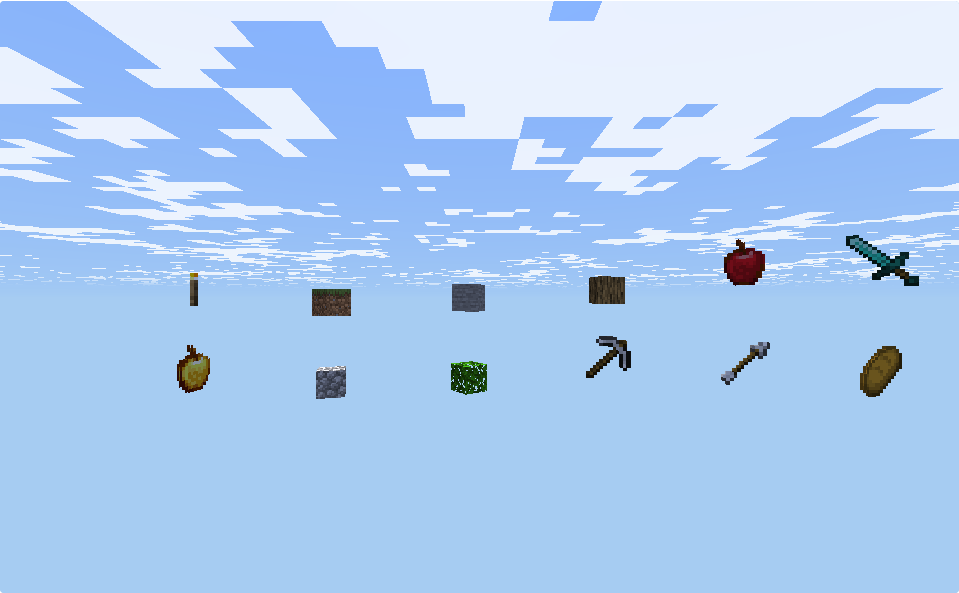
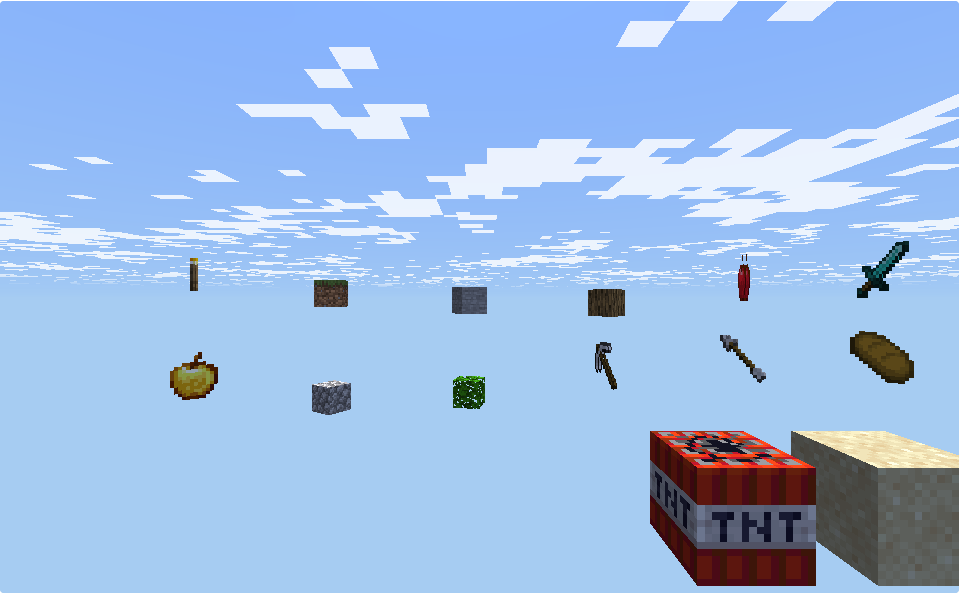
Falling blocks and primed TNT drawn as cubes
ItemLayer.AddBlock draws a falling block (variant = block name, sent by the
plugin and the Fabric mod) or a TNT as a whole block from the item atlas.

diff --git a/AubsCraft.Viewer.Tests/ViewerItemsTests.cs b/AubsCraft.Viewer.Tests/ViewerItemsTests.cs
@@ -47,7 +47,10 @@ public class ViewerItemsTests
             float x = -3.3f + (i % 6) * 1.3f, y = 119.2f - (i / 6) * 0.9f;
             entities.Add(new LiveEntity(100 + i, "item", x, y, 0.5f, 0f, 0f, 0f, 0, 0f, 0f, 0f, null, items[i]));
         }
-        long tick = 200_000;
+        // A falling block and a primed TNT: whole blocks, in the row below the items
+        entities.Add(new LiveEntity(150, "falling_block", -3.3f, 117.0f, 0.5f, 0f, 0f, 0f, 0, 0f, 0f, 0f, null, "sand"));
+        entities.Add(new LiveEntity(151, "tnt", -1.8f, 117.0f, 0.5f, 0f, 0f, 0f, 0, 0f, 0f, 0f, null, null));
+        long tick = 400_000;
         byte[] Frame() => LiveFrameCodec.Write(new LiveFrame
         {
             FullTime = tick, DayTime = 6000, Raining = false, Thundering = false,
@@ -77,7 +80,9 @@ public class ViewerItemsTests
                     await Task.Delay(200);
                 }
             });
-            await Task.Delay(6000);
+            await Task.Delay(4000);
+            // The count is logged every few seconds: wait for the line that has all of them
+            for (int i = 0; i < 30 && !log.ToArray().Any(l => l.Contains($" {items.Length + 2} items)")); i++) await Task.Delay(1000);
             var files = new List<string>();
             for (int i = 0; i < 3; i++)
             {
@@ -89,7 +94,7 @@ public class ViewerItemsTests
 
             Assert.That(log.Any(l => Regex.IsMatch(l, @"\[Items\] Item assets: \d{4} items")), Is.True, "the item pictures loaded:\n" + string.Join("\n", log.Where(l => l.Contains("Items"))));
             var drawn = log.ToArray().Select(l => Regex.Match(l, @"(\d+) items\)")).Where(m => m.Success).Select(m => int.Parse(m.Groups[1].Value)).ToList();
-            Assert.That(drawn.Count == 0 ? 0 : drawn.Max(), Is.EqualTo(items.Length), "every item is in range and drawn");
+            Assert.That(drawn.Count == 0 ? 0 : drawn.Max(), Is.EqualTo(items.Length + 2), "every item, the falling block and the TNT are in range and drawn");
             // Pixels that are neither sky blue nor cloud white are the items
             using var bmp = new Bitmap(files[0]);
             int itemPixels = 0;

diff --git a/AubsCraft.Admin/Rendering/ItemLayer.cs b/AubsCraft.Admin/Rendering/ItemLayer.cs
@@ -20,6 +20,7 @@ public sealed class ItemLayer : IDisposable
     /// <summary>A flat item is drawn half a block across, a block a quarter.</summary>
     public const float SpriteScale = 0.5f, CubeScale = 0.25f;
     // The creatures' light (ambient and sun on the face) is dim for a picture that the game shows at full brightness: lift it
+    private static readonly Vector4 BlockBrightness = new(1.3f, 1.3f, 1.3f, 1f);
     private static readonly Vector4 Brighten = new(1.7f, 1.7f, 1.7f, 1f);
 
     private readonly SpawnJSRuntime _js;
@@ -84,6 +85,21 @@ public sealed class ItemLayer : IDisposable
             SizeFlags = cube ? new Vector4(16f, 16f, 16f, 0f) : new Vector4(16f, 16f, 1f, 0f),
             Uv = new Vector4(cell[0], cell[1], 0f, 0f),
             Tint = Brighten,
+        };
+        _wanted.Add((distSq, part));
+    }
+
+    /// <summary>A falling block or a primed TNT: a whole block (a hair under one, as the game's 0.98 box), not spinning. <paramref name="name"/> is the block's name.</summary>
+    public void AddBlock(in LiveEntityView v, string? name, float distSq)
+    {
+        if (_assets == null || name is not { Length: > 0 } || !_assets.Items.TryGetValue(name, out var cell) || cell[2] != ItemAssets.KindCube) return;
+        var part = new EntityPartInstance
+        {
+            Model = EntityPoser.Root(v.X, v.Y, v.Z, 0f, 0.98f),
+            OriginInflate = new Vector4(-8f, 8f, -8f, 0f),
+            SizeFlags = new Vector4(16f, 16f, 16f, 0f),
+            Uv = new Vector4(cell[0], cell[1], 0f, 0f),
+            Tint = BlockBrightness,
         };
         _wanted.Add((distSq, part));
     }

diff --git a/AubsCraft.Admin/Rendering/EntityLayer.cs b/AubsCraft.Admin/Rendering/EntityLayer.cs
@@ -213,11 +213,14 @@ public sealed class EntityLayer : IDisposable
         foreach (var v in _state.Sample(world, now, Wanted))
         {
             if ((v.Flags & LiveFlags.Invisible) != 0) continue;
-            if (Items != null && EntityModels.Normalise(v.Type) == "item")
+            var kind = EntityModels.Normalise(v.Type);
+            if (Items != null && kind is "item" or "falling_block" or "tnt")
             {
                 float ix = v.X - camera.X, iy = v.Y - camera.Y, iz = v.Z - camera.Z;
                 float id2 = ix * ix + iy * iy + iz * iz;
-                if (id2 <= ItemRange * ItemRange) Items.Add(in v, now, id2);
+                if (id2 > ItemRange * ItemRange) continue;
+                if (kind == "item") Items.Add(in v, now, id2);
+                else Items.AddBlock(in v, kind == "tnt" ? "tnt" : v.Variant, id2);
                 continue;
             }
             if (EntityModels.IsNotACreature(v.Type)) continue;

diff --git a/LiveFabric/src/main/java/com/spawndev/aubscraftlive/LiveFabricMod.java b/LiveFabric/src/main/java/com/spawndev/aubscraftlive/LiveFabricMod.java
@@ -29,6 +29,7 @@ import net.minecraft.world.entity.animal.horse.Llama;
 import net.minecraft.world.entity.animal.sheep.Sheep;
 import net.minecraft.world.entity.npc.Villager;
 import net.minecraft.world.entity.item.ItemEntity;
+import net.minecraft.world.entity.item.FallingBlockEntity;
 import net.minecraft.world.phys.Vec3;
 
 import java.io.IOException;
@@ -206,6 +207,8 @@ public final class LiveFabricMod implements DedicatedServerModInitializer {
     }
 
     private static String variantOf(Entity e) {
+        // A falling block: which block (the viewer draws a cube of it)
+        if (e instanceof FallingBlockEntity fb) return key(BuiltInRegistries.BLOCK.getKey(fb.getBlockState().getBlock()));
         // A dropped item: what it is (the viewer draws its picture)
         if (e instanceof ItemEntity item) return key(BuiltInRegistries.ITEM.getKey(item.getItem().getItem()));
         if (e instanceof Sheep s) return s.getColor().getName();

diff --git a/LivePlugin/src/com/spawndev/aubscraftlive/LivePlugin.java b/LivePlugin/src/com/spawndev/aubscraftlive/LivePlugin.java
@@ -6,6 +6,7 @@ import org.bukkit.entity.Axolotl;
 import org.bukkit.entity.Cat;
 import org.bukkit.entity.Entity;
 import org.bukkit.entity.EntityType;
+import org.bukkit.entity.FallingBlock;
 import org.bukkit.entity.Fox;
 import org.bukkit.entity.Frog;
 import org.bukkit.entity.Horse;
@@ -201,6 +202,11 @@ public final class LivePlugin extends JavaPlugin {
     }
 
     private static String variantOf(Entity e) {
+        // A falling block: which block (the viewer draws a cube of it)
+        if (e instanceof FallingBlock fb) {
+            var key = fb.getBlockData().getMaterial().getKey();
+            return typeKey(key.getNamespace(), key.getKey());
+        }
         // A dropped item: what it is (the viewer draws its picture)
         if (e instanceof Item item) {
             var key = item.getItemStack().getType().getKey();

diff --git a/PLANS.md b/PLANS.md
@@ -126,7 +126,7 @@ one constant colour (no biomes); nothing animates; no entities at all. Today's a
   skeleton, creeper, cow, pig, sheep, chicken, villager, horse, wolf, cat, fox, rabbit, bat, spider, enderman, slime, fish, then a textured-box fallback with a name label.
 - [ ] WL3. (DONE: interpolation, walk cycle, head look, wing flap; LEFT: sneak/sleep/swim poses, hurt flash) **Motion**: interpolate 5-10 Hz snapshots to the display rate (render ~150 ms behind), walk cycle from speed, head look, sneak/sleep/swim poses, hurt flash.
 - [ ] WL4. (DONE: skins via the panel proxy; LEFT: name tags, chat bubbles, minimap markers, follow camera) Player skins (server-side fetch + cache of the profile texture URL), name tags, chat bubbles, minimap markers (players, animals; toggles), follow-camera on a player.
-- [~] WL5. Item entities (DONE 10-16: dropped items drawn as the game does, `ItemLayer` + `ItemAtlasBuilder` (mc-items.json, 1394 items: flat sprites + block cubes from the item models), the plugin and the Fabric mod send item entities with the item name as variant (`include-items` now true, `max-items` 500; TJ presses Update/Install on the Plugins page to rewrite the config + jar); gate `ViewerItemsTests`; LEFT: stack counts, enchant glint, tinted potions/eggs), boats/rafts/chest boats, minecarts, armor stands (DONE 10-16: the game exact models from tools/modeldump (filter now keeps Boat/Raft/Minecart/ArmorStand), `EntityModel.ModelYawDegrees`, gate `BoatsMinecartsAndStands_AreDrawn`; armor stands have no arms/armour/pose, minecarts no cargo block, paddles at rest), projectiles (arrows), falling blocks, tnt, item frames, paintings, end crystals. (PARTICLES DONE 10-16: `ParticleRenderPipeline` in VoxelEngine, analytic from the clock; campfire/soul campfire/furnace/fire/soul fire/torch/redstone torch/candle show smoke + flames, the server names the emitting blocks in `X-Emitters`. LEFT: rain/snow (needs weather), lava pops, explosions/hits/splashes from the live feed, end rods, bubbles, wall torch position by facing, signal smoke over hay.)
+- [~] WL5. Item entities (DONE 10-16: dropped items drawn as the game does, `ItemLayer` + `ItemAtlasBuilder` (mc-items.json, 1394 items: flat sprites + block cubes from the item models), the plugin and the Fabric mod send item entities with the item name as variant (`include-items` now true, `max-items` 500; TJ presses Update/Install on the Plugins page to rewrite the config + jar); gate `ViewerItemsTests`; LEFT: stack counts, enchant glint, tinted potions/eggs), boats/rafts/chest boats, minecarts, armor stands (DONE 10-16: the game exact models from tools/modeldump (filter now keeps Boat/Raft/Minecart/ArmorStand), `EntityModel.ModelYawDegrees`, gate `BoatsMinecartsAndStands_AreDrawn`; armor stands have no arms/armour/pose, minecarts no cargo block, paddles at rest), falling blocks + primed TNT (DONE 10-16: whole-block cubes from the item atlas; plugin/mod send the block as variant), projectiles (arrows), item frames, paintings, end crystals. (PARTICLES DONE 10-16: `ParticleRenderPipeline` in VoxelEngine, analytic from the clock; campfire/soul campfire/furnace/fire/soul fire/torch/redstone torch/candle show smoke + flames, the server names the emitting blocks in `X-Emitters`. LEFT: rain/snow (needs weather), lava pops, explosions/hits/splashes from the live feed, end rods, bubbles, wall torch position by facing, signal smoke over hay.)
 
 ### Reported by TJ 10-15 (live viewer), not yet handled
 - [ ] Rails draw wrong: they should be a thin layer on top of the block they lie on (shape meshing, WT4).
